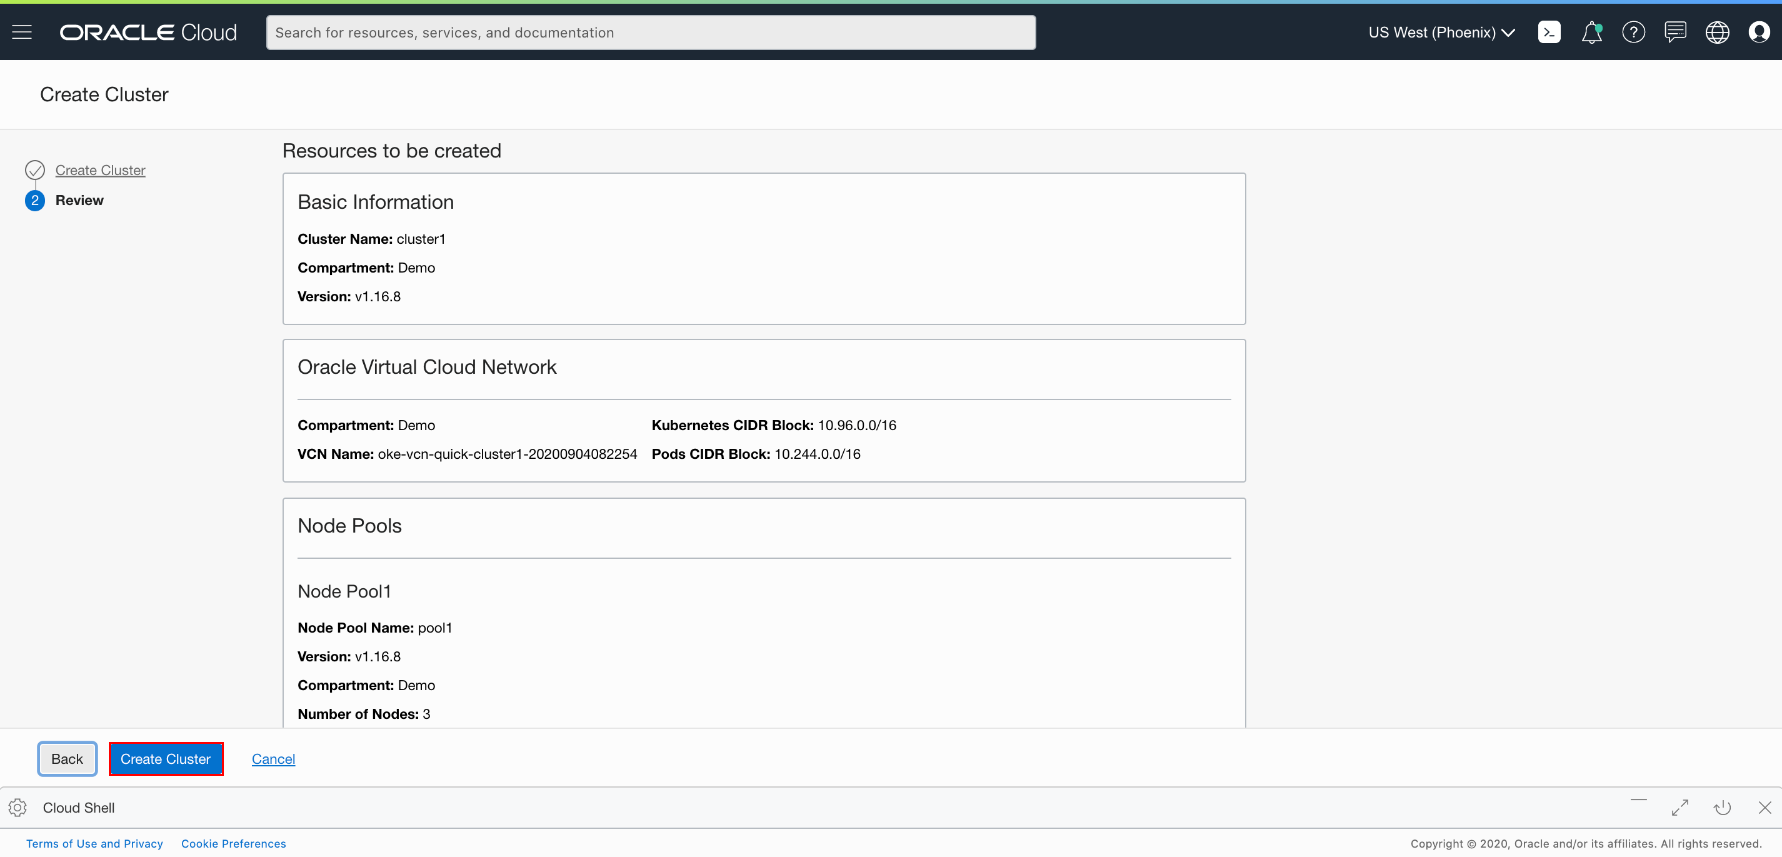
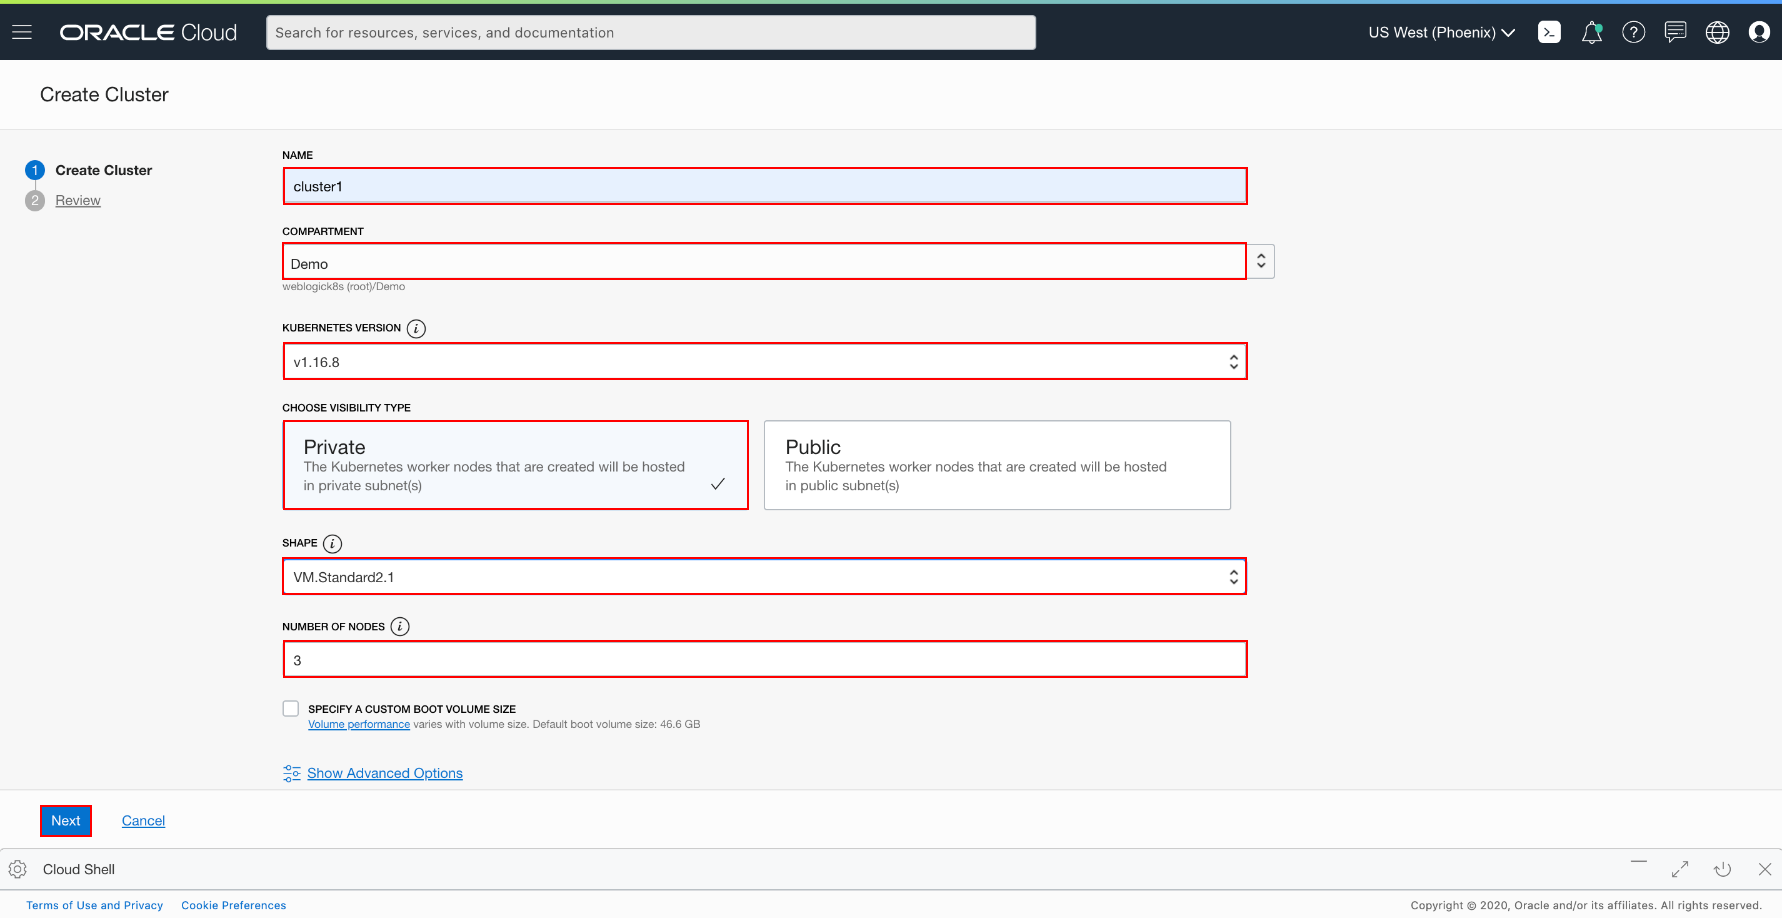
setup OKE doc and screenshots fixes

diff --git a/tutorials/setup.oke.ocishell.md b/tutorials/setup.oke.ocishell.md
@@ -70,23 +70,19 @@ In the Create Cluster Solution dialog, select *Quick Create* and click **Launch 
 
 ![](images/oke/009.quick.1.png)
 
-Select **Quick Create** to create a new cluster with the default settings, along with new network resources for the new cluster.
-
-The Create Virtual Cloud Network panel shows the network resources that will be created for you by default, namely a VCN, two load balancer subnets, and three worker node subnets.
+**Quick Create** will create a new cluster with default settings, along with new network resources for the new cluster.
 
 Specify the following configuration details on the Cluster Creation page:
 - **Name**: The name of the cluster. Leave the default value.
 - **Compartment**: The name of the compartment. Leave the default value.
-- **Kubernetes version**: The version of Kubernetes. Leave the default value. (Don't select version 16 even if it is default version; please select version 15 in such cases.)
-- **Choose Visibility Type**: Is the cluster going to be routable or not. Leave the default value.
+- **Kubernetes version**: The version of Kubernetes. Leave the default value which should be `1.16.8`.
+- **Choose Visibility Type**: Is the cluster going to be routable or not. Leave the default *Private* value.
 - **Shape**: The shape to use for each node in the node pool. The shape determines the number of CPUs and the amount of memory allocated to each node. The list shows only those shapes available in your tenancy that are supported by OKE. Select the available *VM.Standard2.1*.
 - **Number of nodes**: The number of worker nodes to create. Leave the default value, *3*
-- **Kubernetes Dashboard Enabled**: Leave the default false (`DISABLED`).
-- **Tiller (Helm) Enabled**: Leave the default false (`DISABLED`).
-
-Click **Next** to review the details you entered for the new cluster.
 
 ![](images/oke/009.quick.details.ocishell.png)
+
+Click **Next** to review the details you entered for the new cluster.
 
 On the *Review* page, click **Submit** to create the new network resources and the new cluster.
 
